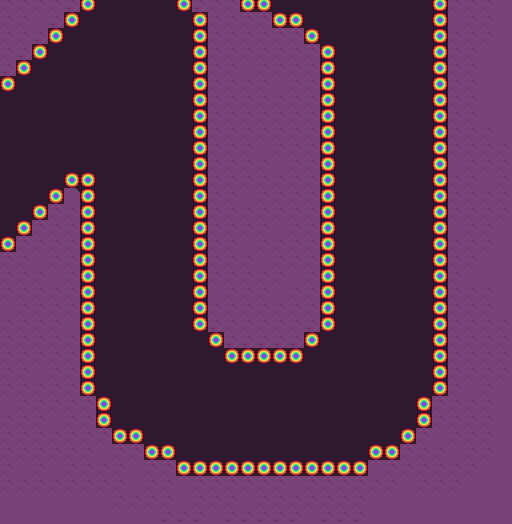
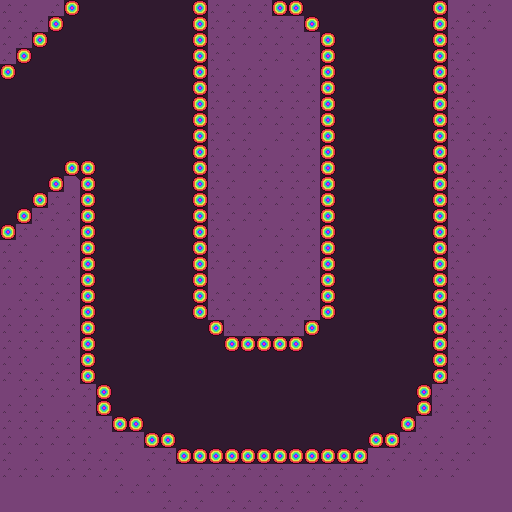
Added primitive player stats and controls

Changed region(s): [[0.0, 0.0, 0.875, 0.9375], [0.3438, 0.0, 0.6562, 0.7188], [0.0, 0.0, 0.1875, 0.1875]]

diff --git a/Main.cpp b/Main.cpp
@@ -1,23 +1,41 @@
 #include "Main.hpp"
 
 Main::Main() {
+	// TODO: Load from lua file
 	WIDTH = 1024;
 	HEIGHT = 768;
+	// reset all keystates
+	for(int i = 0; i < KEY_KEY_CODES_COUNT; i++) {
+		keystate[i] = false;
+	}
 }
 
 void Main::loop() {
+	u32 lastTime = device->getTimer()->getTime();
+
+	HumanRacer pl;
+	pl.create(device, 584.f,1024-110.f,0.f);
+
 	while(device->run()) {
+		const u32 now = device->getTimer()->getTime();
+		const f32 dt = (f32)(now-lastTime) / 100.f;
+		lastTime = now;
+
+		pl.update(keystate,dt);
+
 		driver->beginScene();
-		driver->setRenderTarget(rt);
-		smgr->drawAll();
-		driver->setRenderTarget(0);
-		driver->draw2DImage(rt, core::recti(0,0,WIDTH,HEIGHT), core::recti(0,0,256,256));
+			driver->setRenderTarget(rt);
+			smgr->drawAll();
+			driver->setRenderTarget(0);
+			driver->draw2DImage(rt, core::recti(0,0,WIDTH,HEIGHT), core::recti(0,0,256,256));
+
 		driver->endScene();
 	}
 }
 
 bool Main::init() {
 	device = createDevice(video::EDT_OPENGL, core::dimension2du(WIDTH,HEIGHT));
+	device->setEventReceiver(this);
 	device->setWindowCaption(L"Race!");
 	if(device == NULL)
 		return false;
@@ -32,11 +50,20 @@ bool Main::init() {
 	map.createScene(device);
 
 	camera = smgr->addCameraSceneNodeFPS();
-
-	HumanRacer r;
-	r.create(device, 512.f,512.f,0.f);
+	camera->setPosition(core::vector3df(512.f,10.f,512.f));
 
 	return true;
+}
+
+bool Main::OnEvent(const SEvent& event) {
+	if(event.EventType == EET_KEY_INPUT_EVENT) {
+		keystate[event.KeyInput.Key] = event.KeyInput.PressedDown;
+	}
+	return false;
+}
+
+bool Main::isKeyDown(EKEY_CODE k) {
+	return keystate[k];
 }
 
 int Main::run() {

diff --git a/Racer.cpp b/Racer.cpp
@@ -1,20 +1,58 @@
 #include "Racer.hpp"
 
 scene::ISceneNode* Racer::create(IrrlichtDevice* device, f32 _x, f32 _z, f32 _dir) {
-	x = _x;
-	y = 0.f;
-	z = _z;
+	pos.X = _x;
+	pos.Y = 8.f;
+	pos.Z = _z;
 	dir = _dir;
+	turn = speed = 0.f;
 	isSolid = true;
 
+	// TODO: Read these from different characters
+	S_TURNSPEED = 0.2f;
+	S_ACCELERATION = 1.f;
+	S_TOPSPEED = 20.f;
+
 	scene::ISceneManager* smgr = device->getSceneManager();
-	node = smgr->addBillboardSceneNode(0, core::dimension2df(32.f,32.f), core::vector3df(x,16.f,z));
+	node = smgr->addBillboardSceneNode(0, core::dimension2df(16.f,16.f),pos);
+	node->setMaterialFlag(video::EMF_LIGHTING, false);
+	node->setMaterialFlag(video::EMF_BILINEAR_FILTER, false);
+	node->setMaterialTexture(0, device->getVideoDriver()->getTexture("player.png"));
+	node->setMaterialType(video::EMT_TRANSPARENT_ALPHA_CHANNEL_REF);
+
 	return node;
 }
 
-void Racer::handleInput() {
-
+void Racer::update(bool* keystates, f32 dt) {
+	updateInput(keystates, dt);
+	updateLogic(dt);
 }
 
-void Racer::update(f32 dt) {
+void Racer::updateLogic(f32 dt) {
+	if(acc > 0.f) {
+		speed += S_ACCELERATION*dt;
+	} else {
+		if(speed > 0.1f) {
+			speed -= FRICTION;
+		} else if(speed < -0.1f) {
+			speed += FRICTION;
+		} else {
+			speed = 0.f;
+		}
+	}
+
+	// Clamp speed to topspeed
+	if(speed > S_TOPSPEED) {
+		speed = S_TOPSPEED;
+	} else if(speed < -S_TOPSPEED) {
+		speed = -S_TOPSPEED;
+	}
+
+	dir += turn*dt*S_TURNSPEED;
+
+	pos.X += cos(dir)*speed*dt;
+	pos.Z += sin(dir)*speed*dt;
+	node->setPosition(pos);
 }
+
+void Racer::updateInput(bool* keystates, f32 dt) { }

diff --git a/Racer.hpp b/Racer.hpp
@@ -3,17 +3,27 @@
 
 #include <irrlicht/irrlicht.h>
 using namespace irr;
+#include <irrlicht/irrMath.h>
+#include <iostream>
+
+// TODO: Get from terrain in case of ice or something
+#define FRICTION 0.06f
 
 class Racer {
 public:
 	scene::ISceneNode* create(IrrlichtDevice* device, f32 x, f32 z, f32 dir);
-	void update(f32 dt);
-	virtual void handleInput();
+	void updateLogic(f32 dt);
+	void update(bool* keystates, f32 dt);
+	virtual void updateInput(bool* keystates, f32 dt);
 
 protected:
 	bool isSolid;
 	scene::ISceneNode* node;
-	f32 x, y, z, xspeed, zspeed, dir;
+	core::vector3df pos;
+	f32 speed, turn, dir, acc;
+
+	//stats
+	f32 S_TURNSPEED, S_ACCELERATION, S_TOPSPEED;
 };
 
 #endif

diff --git a/Main.hpp b/Main.hpp
@@ -9,15 +9,18 @@ using namespace irr;
 #include "Racer.hpp"
 #include "HumanRacer.hpp"
 
-class Main {
+class Main : public IEventReceiver {
 public:
 	Main();
 	int run();
+	bool OnEvent(const SEvent& event);
+	bool isKeyDown(EKEY_CODE k);
 private:
 	bool init();
 	void loop();
 
 	int WIDTH, HEIGHT;
+	bool keystate[KEY_KEY_CODES_COUNT];
 
 	IrrlichtDevice* device;
 	video::IVideoDriver* driver;

diff --git a/HumanRacer.cpp b/HumanRacer.cpp
@@ -1,9 +1,17 @@
 #include "HumanRacer.hpp"
 
-HumanRacer::HumanRacer() {
-	isSolid = true;
-}
+HumanRacer::HumanRacer() { }
 
-void HumanRacer::handleInput() {
+void HumanRacer::updateInput(bool* keystates, f32 dt) {
+	acc = turn = 0.f;
 
+	if(keystates[KEY_SPACE]) {
+		acc = 1.f;
+	}
+
+	if(keystates[KEY_KEY_A]) {
+		turn = 1.f;
+	} else if(keystates[KEY_KEY_D]) {
+		turn = -1.f;
+	}
 }

diff --git a/HumanRacer.hpp b/HumanRacer.hpp
@@ -1,12 +1,14 @@
 #ifndef __HUMANRACER_HPP
 #define __HUMANRACER_HPP
 
+#include <irrlicht/irrlicht.h>
+using namespace irr;
 #include "Racer.hpp"
 
 class HumanRacer : public Racer {
 public:
 	HumanRacer();
-	void handleInput();
+	void updateInput(bool* keystate, f32 dt);
 };
 
 #endif
